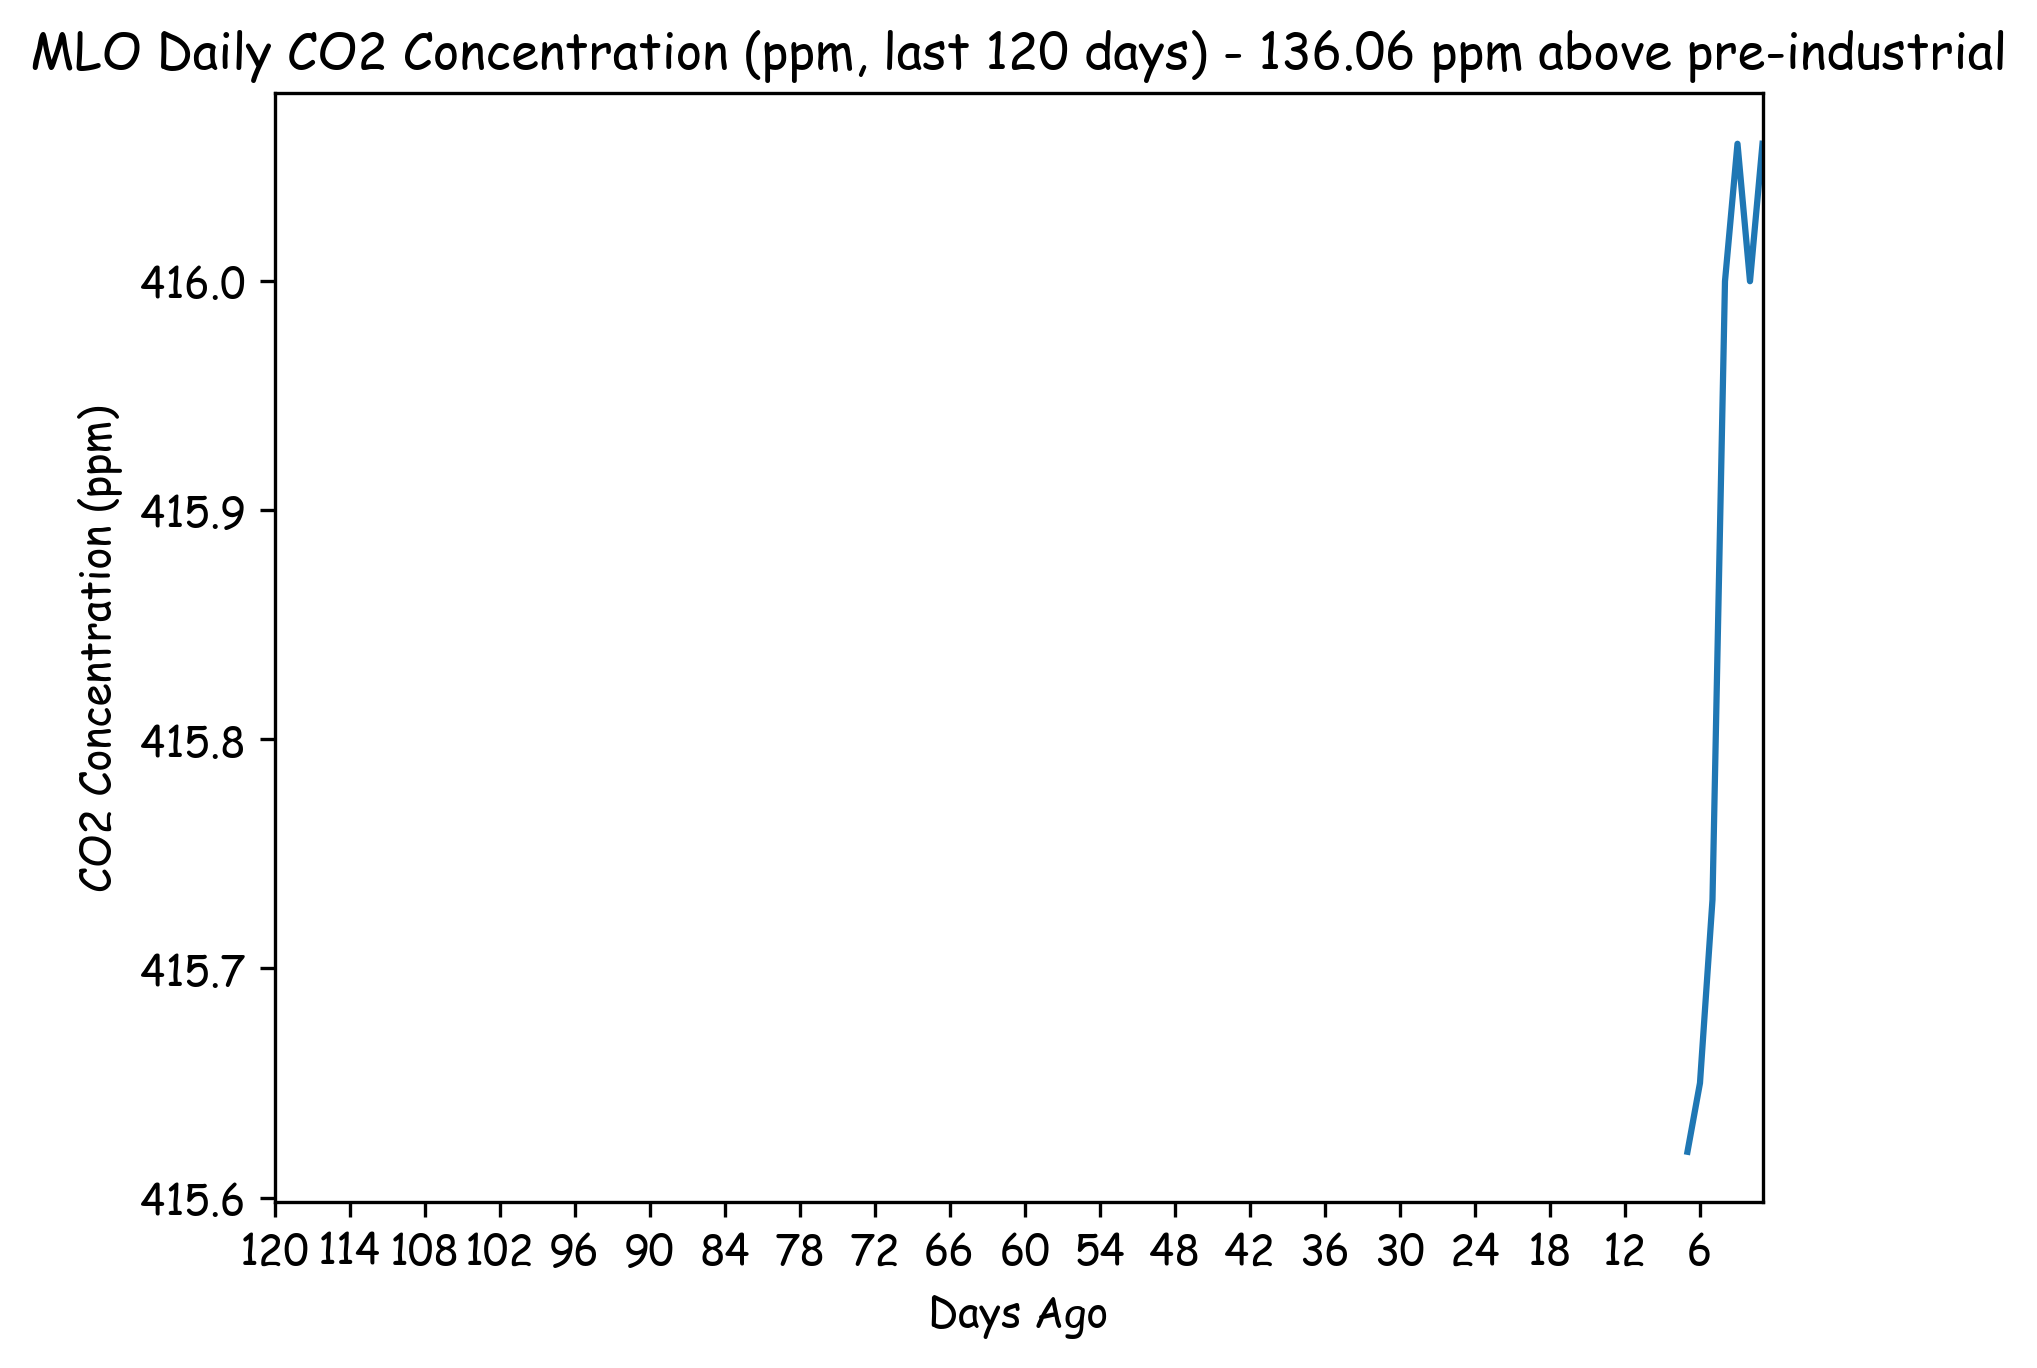
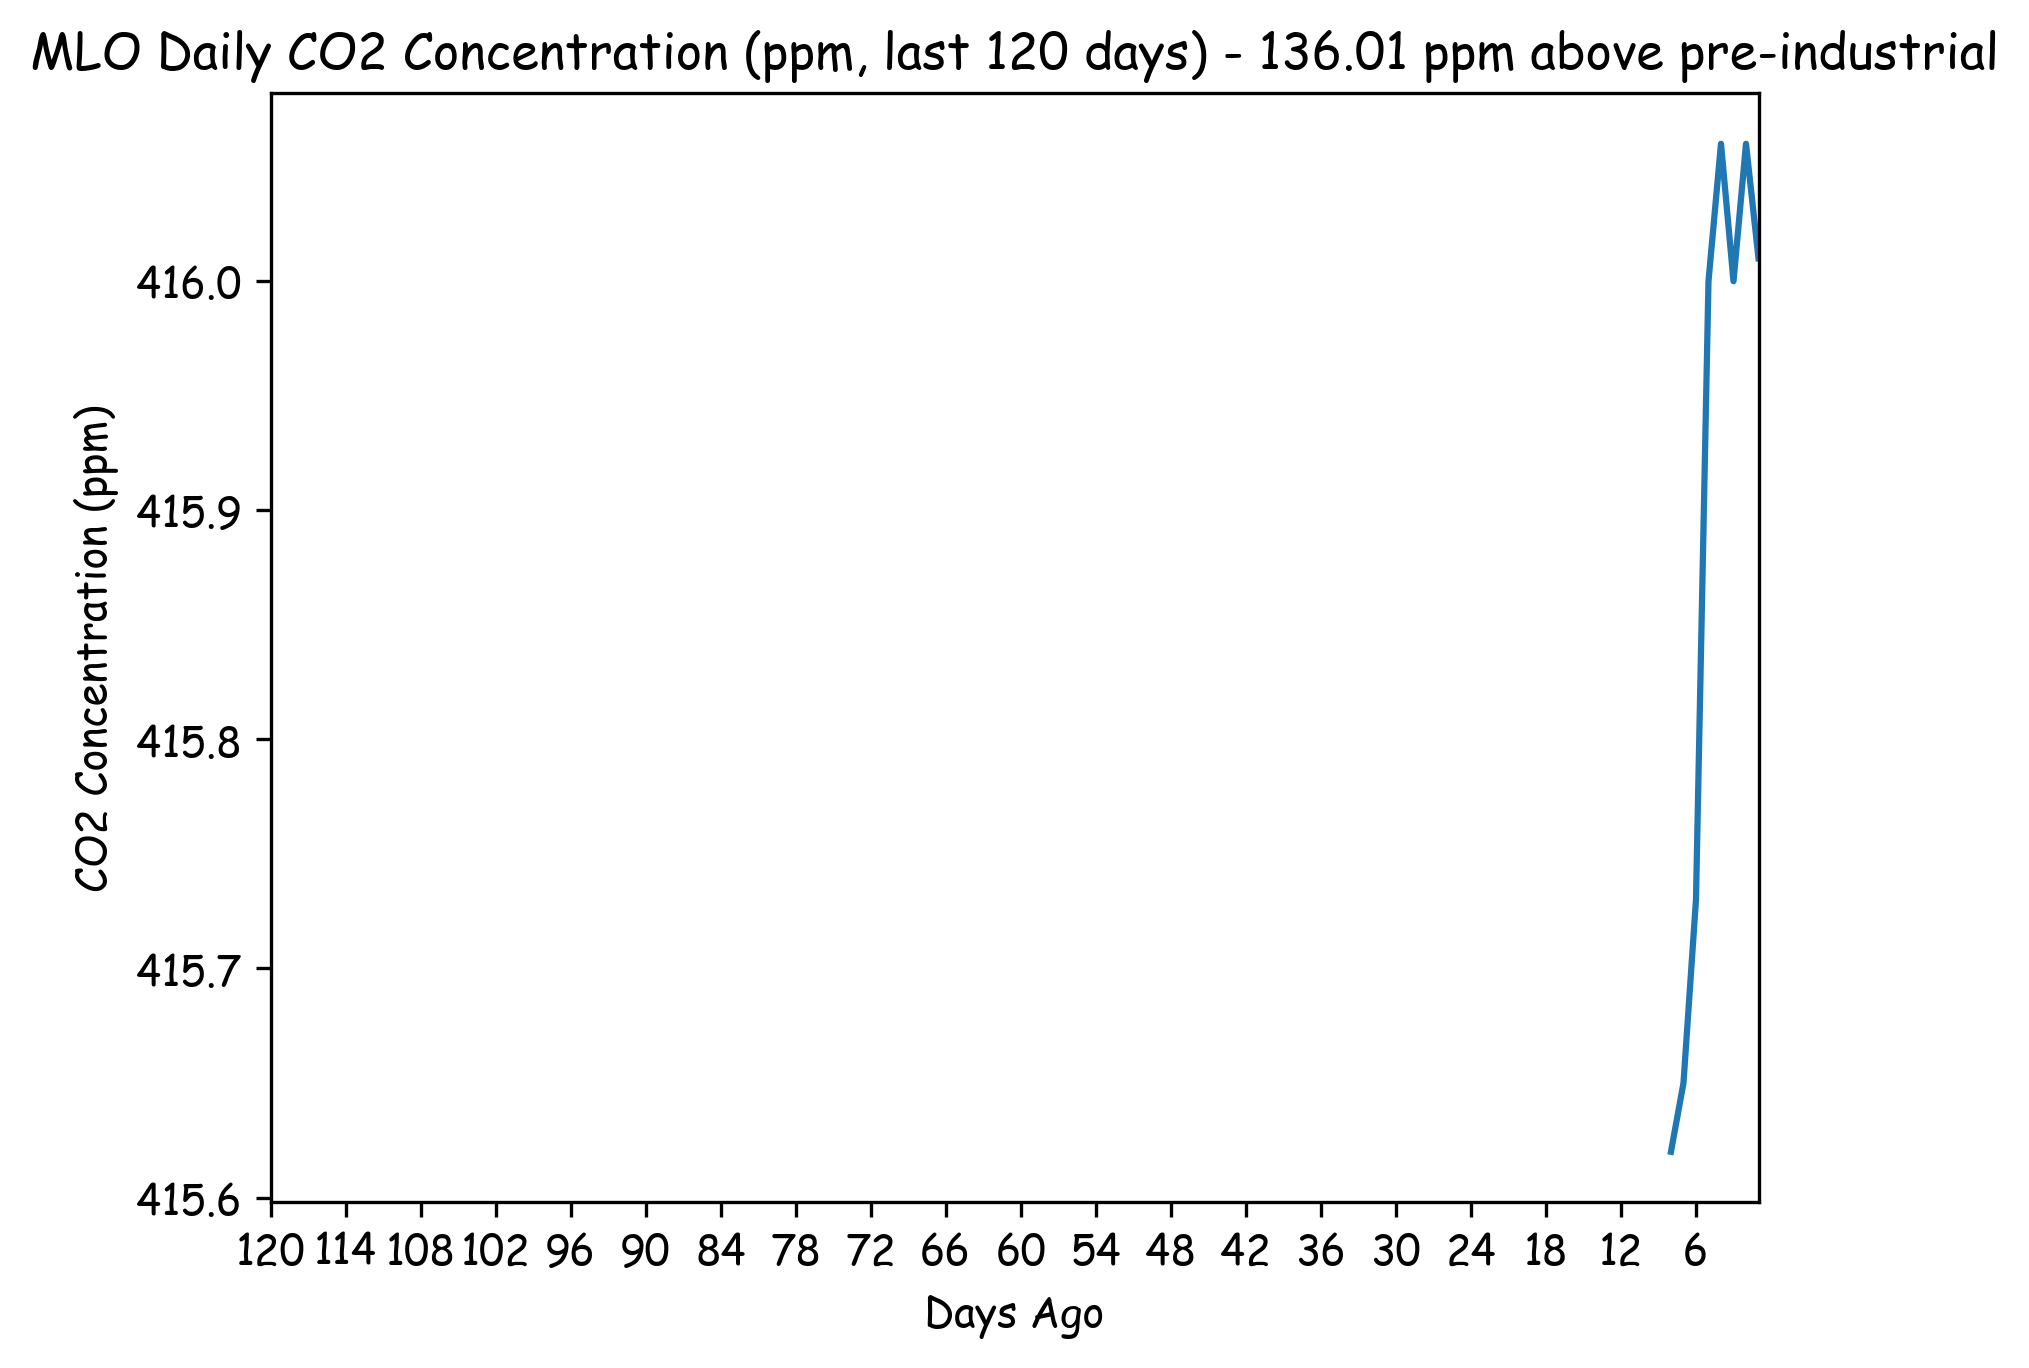
auto-push

Changed region(s): [[0.031, 0.0, 0.9625, 0.9211], [0.6831, 0.8904, 0.8383, 0.9211], [0.5589, 0.8904, 0.5899, 0.9211]]

diff --git a/monthly.html b/monthly.html
@@ -499,13 +499,13 @@ NOTE: Starting Feb. 10, 2021, the CO<sub>2</sub> data is now on the WMO X2019 sc
 	<div class="text-center">
 		<div class='colored_box seagreen-bg'>
                         <table>
+<tr><td>October 22:&nbsp;&nbsp; </td><td> 416.01 ppm</td></tr>
 <tr><td>October 21:&nbsp;&nbsp; </td><td> 416.06 ppm</td></tr>
 <tr><td>October 20:&nbsp;&nbsp; </td><td> 416.00 ppm</td></tr>
 <tr><td>October 19:&nbsp;&nbsp; </td><td> 415.73 ppm</td></tr>
 <tr><td>October 18:&nbsp;&nbsp; </td><td> 415.65 ppm</td></tr>
-<tr><td>October 17:&nbsp;&nbsp; </td><td> 415.62 ppm</td></tr>
 </table>
-<span>Last Updated: October 22, 2022</span>
+<span>Last Updated: October 23, 2022</span>
 
 		</div>
 	</div>

diff --git a/src/pages/Dashboard.js b/src/pages/Dashboard.js
@@ -48,7 +48,7 @@ const Dashboard = () => {
               <div className={styles.dailyConcentrationDiv}>
                 Daily Concentration
               </div>
-              <MonthlyCon monthlyVal="416.06 ppm" />
+              <MonthlyCon monthlyVal="416.01 ppm" />
               <AmericaCon americaVal="460 ppm" />
               <img className={styles.groupIcon} alt="" src="https://i.imgur.com/Q0oW5PX.png" />
             </div>

diff --git a/backend.py b/backend.py
@@ -19,7 +19,7 @@ def ingest_data():
         f.write(r.content)
 
     #open html as a string
-    with open('monthly.html', 'r') as f:
+    with open('/Users/shedprinter/desktop/nueva_site/monthly.html', 'r') as f:
         html = f.read()
 
     #parse through html file and identify the most recent value
